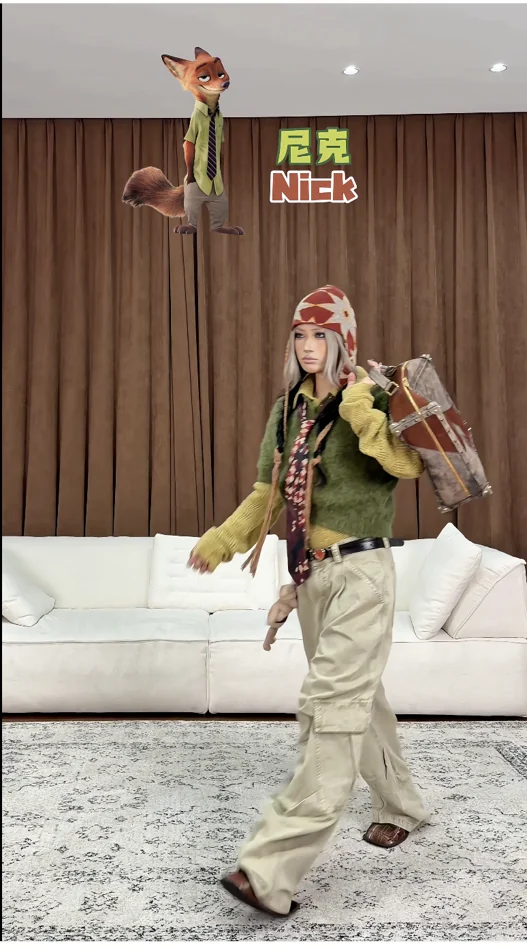
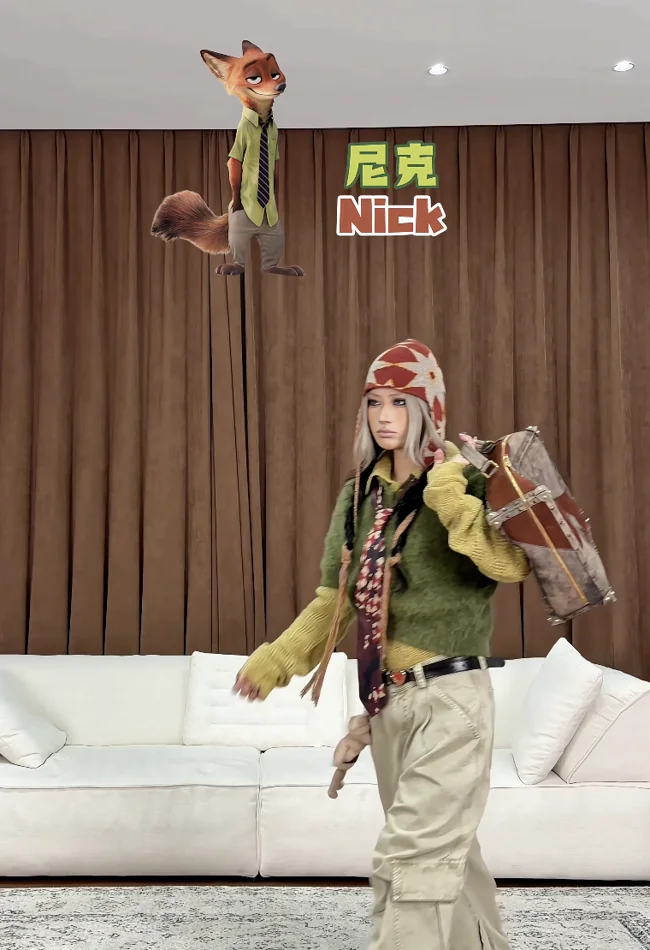
feat: 抓取笔记封面+标题，卡片化展示，精简排版

diff --git a/src/pages/HomeV2.vue b/src/pages/HomeV2.vue
@@ -72,6 +72,28 @@
       </div>
     </section>
 
+    <!-- 🔥 热点上榜 — 一、与二之间 -->
+    <section class="hot-trend">
+      <div class="hot-trend-head">
+        <span class="hot-trend-badge">🚨 目前内容热度正飞速趿升中</span>
+        <h3 class="hot-trend-title">7.25 热点上榜</h3>
+      </div>
+      <div class="hot-trend-chart">
+        <img :src="hotTrend" alt="热度趋势" loading="lazy"/>
+      </div>
+      <div class="hot-trend-notes-title">🔥 爆款笔记</div>
+      <div class="hot-trend-notes">
+        <a v-for="n in hotNotes" :key="n.id"
+           :href="`https://www.xiaohongshu.com/explore/${n.id}`" target="_blank"
+           class="mini-note">
+          <div class="mini-cover">
+            <img :src="proxied(n.cover)" :alt="clean(n.title)" loading="lazy"/>
+          </div>
+          <p class="mini-title">{{ clean(n.title) }}</p>
+        </a>
+      </div>
+    </section>
+
     <!-- ────── 二、参与方式 ────── -->
     <section id="join" class="section">
       <header class="section-head">
@@ -319,6 +341,7 @@ import jojocoreFeatured from '../assets/jojocore-featured.webp'
 import patternA from '../assets/pattern-a.webp'
 import patternB from '../assets/pattern-b.webp'
 import patternC from '../assets/pattern-c.webp'
+import hotTrend from '../assets/hot-trend.webp'
 
 const raw = notesMeta as Record<string, any[]>
 const notes: Record<string, any[]> = JSON.parse(JSON.stringify(raw))
@@ -355,6 +378,12 @@ const otherDirections = [
   { key: 'dir-otaku',     icon: '🎧', name: '阿宅现生怎么穿' },
 ]
 
+const hotNotes = [
+  { id: '6a63776d000000000f011804', title: '疑似来威尼斯的真正原因…', cover: 'http://sns-webpic-qc.xhscdn.com/202607282044/1f213bfce26ed57cf5fe5f678b2e341e/1040g2sg3230qabgino004bha7h9fkndojmvq3j8!nd_dft_wlteh_jpg_3' },
+  { id: '68801de8000000002400c5ea', title: 'jojo黄金风的灵感穿搭🐞 不是cos', cover: 'http://sns-webpic-qc.xhscdn.com/202607282044/9b92c2bd52e1ac341b568f59916d8245/1040g00831k8prmsoj4005ps43s127ii4roe1h88!nd_dft_wlteh_jpg_3' },
+  { id: '6a678070000000001003d1cb', title: '当我与JOJO对上穿搭暗号（27套合集版：', cover: 'http://sns-webpic-qc.xhscdn.com/202607282044/d329d253593ccdf5cd8002af160aceb9/1040g2sg3234mrv146ueg5ocm79940l65eoeu650!nd_dft_wlteh_jpg_3' },
+]
+
 const officialCover = 'https://wsrv.nl/?url=' +
   encodeURIComponent('sns-webpic-qc.xhscdn.com/202607281333/7892aa9f579912de224e697962759ca4/spectrum/1040g34o32348rpj4n01g44n3shqsuc7rlj3ojv0!nd_dft_wlteh_jpg_3') +
   '&w=400&we&output=webp'
@@ -377,8 +406,8 @@ const row1Cores = [
   { key: '奈奈core', name: '奈奈core', desc: '蕾丝 + 泡泡短裤 + 小腿袜',   gradient: 'linear-gradient(135deg,#C793C1,#B979B1)' },
 ]
 const row1bCores = [
-  { key: '迪士尼core',      name: '迪士尼core',      desc: '迪士尼公主 / 反派风格',   gradient: 'linear-gradient(135deg,#EDD3E8,#DDB5D8)', color: '#7A4574' },
-  { key: '飞天小女警core', name: '飞天小女警core', desc: '毛毛 / 花花 / 泡泡三色配',   gradient: 'linear-gradient(135deg,#c8f7d4,#EDD3E8)', color: '#3a5a2d' },
+  { key: '迪士尼core',      name: 'Disneycore',      desc: '迪士尼公主 / 反派风格',   gradient: 'linear-gradient(135deg,#EDD3E8,#DDB5D8)', color: '#7A4574' },
+  { key: '飞天小女警core', name: '毛毛core', desc: '飞天小女警——毛毛 / 花花 / 泡泡三色上身',   gradient: 'linear-gradient(135deg,#c8f7d4,#EDD3E8)', color: '#3a5a2d' },
 ]
 const row2Cores = [
   { key: 'NANAcore',  name: 'NANAcore',  gradient: 'linear-gradient(135deg,#EDD3E8,#DDB5D8)', color: '#7A4574' },
@@ -544,6 +573,56 @@ function fallback(text: string, done: () => void) {
 }
 .official-strip-title { font-size: 1rem; font-weight: 700; color: #1a1a1a; margin: 0; }
 .official-strip-cta { color: #B979B1; font-weight: 700; font-size: .9rem; white-space: nowrap; }
+
+/* 🔥 热点上榜 section */
+.hot-trend {
+  max-width: 980px;
+  margin: 30px auto;
+  padding: 26px 30px;
+  background: linear-gradient(135deg, #fff5e6, #fff0f0);
+  border: 2px solid #ffb800;
+  border-radius: 24px;
+  box-shadow: 0 8px 26px rgba(255, 184, 0, .18), 0 0 0 4px rgba(255, 184, 0, .08);
+}
+.hot-trend-head {
+  display: flex; align-items: center; gap: 14px;
+  flex-wrap: wrap; margin-bottom: 16px;
+}
+.hot-trend-badge {
+  display: inline-block;
+  padding: 6px 16px;
+  background: linear-gradient(90deg, #ff4d4d, #ff8c00);
+  color: #fff;
+  border-radius: 999px;
+  font-size: .88rem;
+  font-weight: 800;
+  box-shadow: 0 3px 10px rgba(255, 77, 77, .35);
+  animation: hotPulse 2s ease-in-out infinite;
+}
+@keyframes hotPulse {
+  0%, 100% { box-shadow: 0 3px 10px rgba(255, 77, 77, .35); transform: scale(1); }
+  50% { box-shadow: 0 3px 18px rgba(255, 77, 77, .6); transform: scale(1.02); }
+}
+.hot-trend-title { margin: 0; font-size: 1.35rem; font-weight: 900; color: #3A2A55; }
+.hot-trend-chart {
+  border-radius: 14px; overflow: hidden;
+  border: 1px solid rgba(255, 184, 0, .25);
+  background: #fff;
+  margin-bottom: 20px;
+  box-shadow: 0 3px 12px rgba(0, 0, 0, .06);
+}
+.hot-trend-chart img { display: block; width: 100%; height: auto; }
+.hot-trend-notes-title {
+  font-size: 1rem; font-weight: 800; color: #7A4574;
+  margin-bottom: 12px;
+}
+.hot-trend-notes {
+  display: grid; grid-template-columns: repeat(3, 1fr); gap: 12px;
+}
+@media (max-width: 900px) {
+  .hot-trend { padding: 20px; }
+  .hot-trend-notes { grid-template-columns: 1fr; }
+}
 
 /* Section */
 .section {

diff --git a/.cowork/memory.md b/.cowork/memory.md
@@ -115,6 +115,11 @@ visibility: SELF_ONLY
 - **v1.0.60** — 2026-07-28 20:22 — redeploy 到 Cowork，alias=`fancore-brief`，deploymentId=15430
 
 - **v1.0.61** — 2026-07-28 20:25 — redeploy 到 Cowork，alias=`fancore-brief`，deploymentId=15430
+- **v1.0.62** — 2026-07-28 20:33 — redeploy 到 Cowork，alias=`fancore-brief`，deploymentId=15430
+
+- **v1.0.63** — 2026-07-28 20:36 — redeploy 到 Cowork，alias=`fancore-brief`，deploymentId=15430
+- **v1.0.64** — 2026-07-28 20:47 — redeploy 到 Cowork，alias=`fancore-brief`，deploymentId=15430
+
 ## 元信息变更
 <!-- update_metadata 自动追加 -->
 
